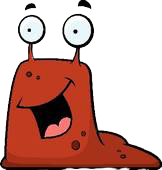
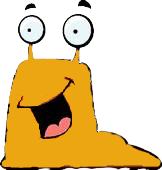
new player added, to have a more integrated picture

diff --git a/assets/javascript/game.js b/assets/javascript/game.js
@@ -13,7 +13,7 @@ window.onload = function () {
 
 function startGame() {
     console.log("did anything");
-    myGamePiece = new component(25, 27, "./assets/images/player.png", 665, 516, "image");
+    myGamePiece = new component(32, 32, "./assets/images/player.png", 665, 516, "image");
     myBackground = new component(715, 570, "./assets/images/maze.png", 0, 0, "background");
     myDestination = new component(35, 35, "./assets/images/destination.png", 0, 25, "image");
     myGameArea.start();
